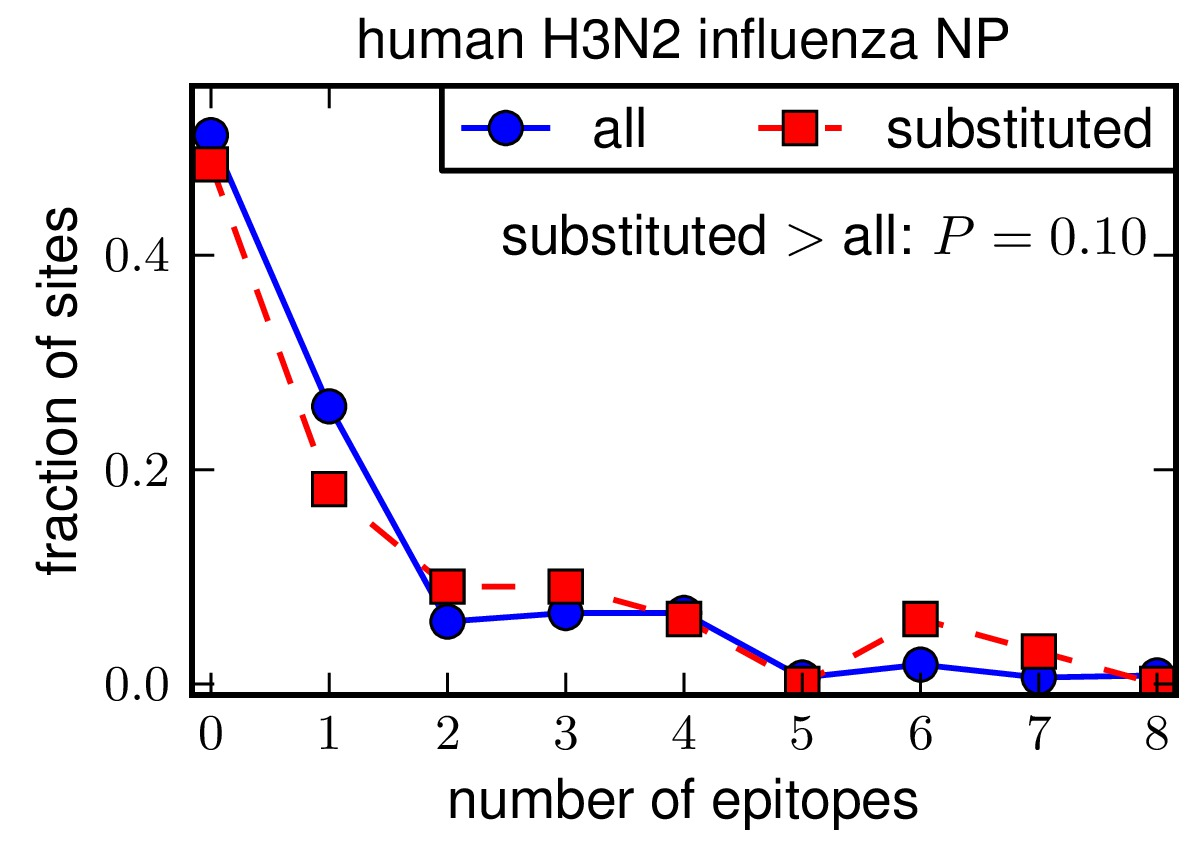
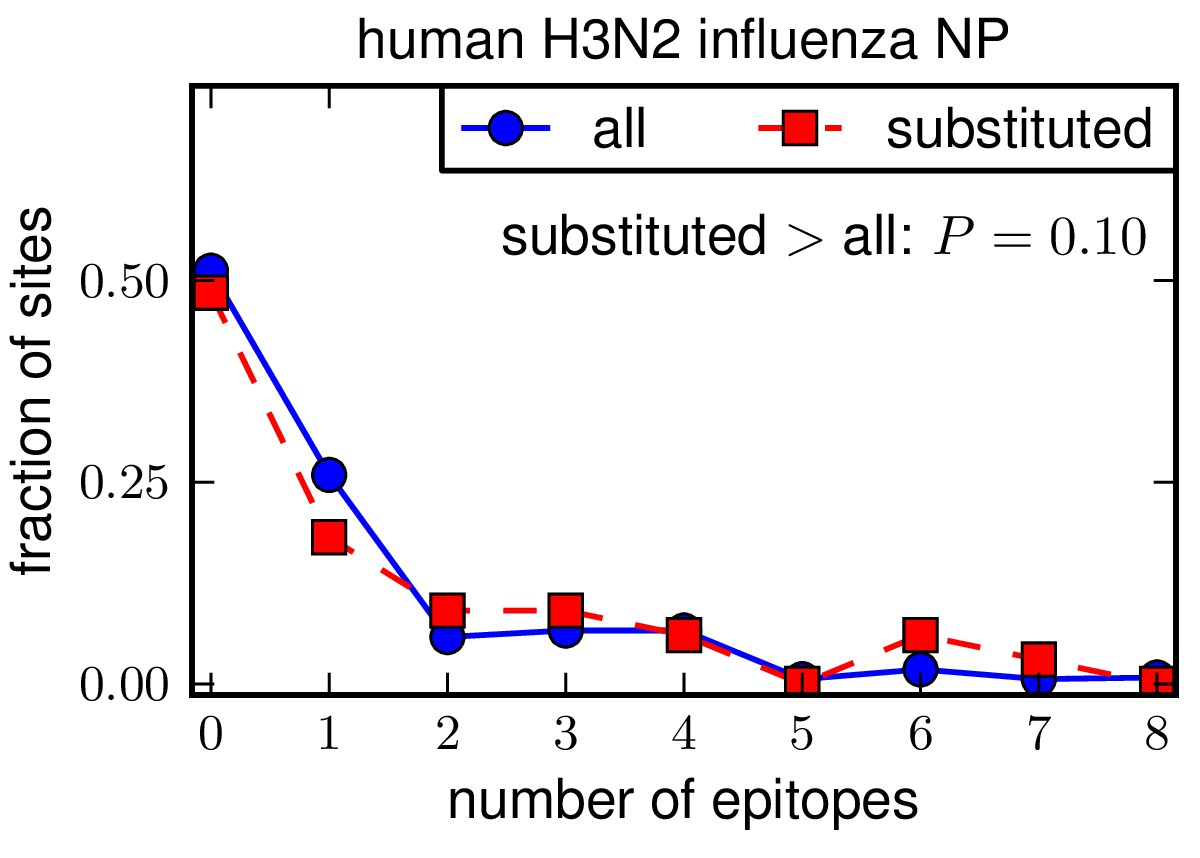
Added option to fix ymax in epitopefinder_plotdistributioncomparison.py, and fixed equal ymax for swine and human comparisons in NP example

Changed region(s): [[0.0, 0.1212, 0.9867, 0.8182], [0.0617, 0.7576, 0.1233, 0.8182], [0.9558, 0.5455, 0.9867, 0.5758]]

diff --git a/searchindex.js b/searchindex.js
@@ -1,1 +1,1 @@
-Search.setIndex({envversion:42,terms:{all:[0,1,2,5,8,9,10,11,14,7,17],influenza:[7,10,9],jason:10,consider:10,headers_seq:[0,8],illustr:2,linebreak:0,ala:0,although:[10,3,9],correl:[6,11,14],overlap:[10,9],cumulativefractionplot:11,follow:[0,1,2,3,5,8,9,10,14,7,17],otherkei:2,unclassifi:[10,9],compact:[10,17,9],decid:5,middl:11,depend:[10,1,11,5,14],xdatafil:14,pb2:0,sensit:0,decim:[0,11],readabl:2,specif:[0,6,5,7,9,10,11,17],tail:11,program:[0,6,8,10],parseseqvalu:2,unique_epitope_refer:10,under:[10,15],sens:11,introduc:17,datafil:7,sourc:[6,10,3,17,9],everi:[0,8],string:[0,1,2,8,9,11,14,7],targetprotsfil:10,purgeredundantoverlap:10,epitopefinder_selectsites_human_h3n2_epistaticsit:17,util:[0,1,3,4,7,11,14,17],print:[0,2,11,8,9],candid:10,assai:[10,17,9],whether:[0,10,11,14,9],correlationplot:11,veri:0,month:0,iedb:9,relev:9,epitopecounts_selectedsites_swin:17,look:[0,5],pamuk:10,ghostscript:17,level:[10,3,17,9],did:2,taatgc:0,list:[1,2,5,8,9,10,7,17],fewer:[1,17],"try":5,writenexu:0,small:4,distributioncomparison_swine_all_vs_substitut:17,round:8,pleas:15,upper:[0,8,9],epitopesbysite_human_h3n2:17,epistaticsites_humanh3n2:17,franc:10,b27:9,natur:17,mhcgroup:[10,9],"1_epitope_sequ":10,zero:[8,11],pressur:17,design:[0,8,12,11,9],valueerror:[0,2,11,9],pass:9,download:[6,3,4,9,10,17],further:[6,10],acid:[0,8],even:[0,8,5,9],index:8,what:[8,5],comman:9,appear:[0,8,5],compar:[1,11,17,5],x_label:11,pylabavail:11,section:6,"while":[11,17],outfileprefix:2,current:[0,2,11,9],mhcsupertyp:[10,9],version:[10,3,17],nggtgc:0,truncate_incomplet:0,consecut:10,"new":[0,8],method:[0,8,11],entry2:9,entry3:9,full:[0,1,10,5],themselv:[10,9],example_influenza_np_1918_descend:17,gener:[1,11,5,6],coeffici:[14,11],here:[1,5,16,12,9,11,10,13,14,7,17],"2007_np":10,purin:0,them:[0,6,7,9,10,11],free:15,tagc:8,drb4:9,path:[1,5,8,10,14,7,17],along:[0,10,11,17],infil:[0,1,5,7,9,10,14],sinc:[0,10,8,11,5],interpret:17,drb3:9,epitopefinder_plotdistributioncomparison:4,search:[0,1,5,7,10,14,17],gln:0,host:[10,17,9],through:[0,10,17,9],observ:17,prior:0,amount:[10,9],selectsitesfil:[1,5],seq3:[0,8],seq2:[0,8],implement:1,gene:[0,10,17,9],e_coli_thioredoxin:0,commonli:[0,7],corr:11,descendend:17,"import":[1,5,7,11,10,14],approxim:0,epitopefinder_plotdistributioncomparison_swine_all_vs_substituted_infil:17,releas:[10,9],api:6,scientif:11,instal:[1,4,5,6,7,10,14],txt:[1,2,5,7,10,14,17],select:[0,1,17,5,14],highli:17,kei:[0,1,2,5,9,10,14,17],plot:[1,3,4,6,7,14,17],feb:0,describ:[1,5,6,7,10,14],would:[0,5,8,9,11,10,7,17],memori:0,distinct:[10,5,9],marinkov:10,two:[0,1,2,8,9,10,11,14,7,17],nexu:0,next:17,few:[10,11,3,4,5],call:[0,1,2,5,8,9,10,11,14,7],value2:2,criteria:11,taken:[0,8,9,11,7,17],indiana:17,type:[0,10],until:2,more:[0,1,2,5,8,10,11,17],sort:[5,9],main:[6,10,3,4,13],sudo:3,targetprots_humanh3n2:17,relat:10,mismatch:[8,10,17],iedb_influenza_tcell_compact_2013:17,trail:[0,8,9],visual:7,exce:[11,17],versu:17,epitopesfile1:1,epitopesfile2:1,particular:0,actual:[1,5,7,11,10,17],given:[0,10,7,11,9],must:[0,1,3,5,8,9,10,11,14,7],writable_fil:0,none:[0,1,9,10,11,14],word:[14,2,7],thymin:0,jess:[0,6,2,8,9,15,17],analys:10,setup:3,work:[0,10,11,3,9],uniqu:[0,10],epitopefinder_plotlineardens:4,remain:[0,2,8],minimum:[10,9],del:10,can:[0,1,3,5,6,8,9,10,11,12,14,7,17],"1_epitope_posit":10,scatter:[14,11],point:[14,11],spearman:[14,11],iedbfil:10,unassign:9,give:[0,2,8,9,11,10,14,7,17],process:[0,17,9],selectedsites_humanh3n2:[17,5],share:9,smirnov:17,indic:[0,1,2,5,8,9,11,7,17],high:3,plotdistributioncomparison:11,ishioka:10,immunolog:[10,17],want:[0,1,3,5,6,8,10,11,12,14,7,17],tac:8,a00968365:17,musclepath:[8,10],"61a":0,occur:17,nearli:0,alwai:[7,9],cours:0,end:[1,2,8,9,11,14,7],newlin:2,divid:8,rather:[0,5,9],anoth:[0,1,2],atgcaa:0,classifi:[10,17,9],write:[0,2,9],how:[10,11,17,5,9],run:[8,4],purg:[10,9],sidnei:10,subdirectori:[6,3,13,17],answer:10,instead:[0,8],csv:[1,5,7,9,10,14,17],epitopefinder_selectsit:[1,4],updat:[10,9],map:10,guanin:0,likewis:0,recogn:0,after:[1,3,6,8,11,10],epitopefinder_plotlineardensity_infil:17,befor:[10,11,9],mac:[3,17],nucleotid:[0,8],multipl:[0,5,8,11,10,7],redund:[10,17,9],bloom:[0,6,2,8,9,15,17],averag:[1,17],goal:9,underscor:11,"short":[10,9],attempt:[10,8,11,9],third:0,read:[0,2,10,9],dqb1:9,quot:9,correspond:[0,2,8,5],made:9,exclud:8,caus:[11,17],inform:[0,8,10,17,9],"switch":0,preced:8,allow:[1,5,8,9,11,10,14,7],subtyp:0,exclus:0,first:[0,2,3,5,8,9,10,11,14,7,17],order:[0,4,5,8,11,7],oper:2,help:[14,7,5],a02:[10,9],john:10,freling:9,a01:[10,9],becaus:10,tupl:[0,8,11,9],evolutionari:17,comma:[7,10,9],coli:0,still:[0,8,9],paramet:10,epitopefinder_plotdistributioncomparison_human_h3n2_all_vs_substituted_infil:17,group:[10,17,9],chosen:0,fix:[7,11],virol:9,wcgw:0,texa:17,splitlabel:11,platform:[1,3,5,7,10,14],unchang:[0,8],fullset:11,progpath:8,sapien:[10,17,9],therefor:[0,8],might:[0,1,3,5,8,10,11,14,7],split:[11,9],non:[14,8,17],scipi:[14,11,3,4,17],"return":[0,2,11,8,9],greater:[11,17],thei:[0,3,5,8,9,10,11,13],handl:[0,5,9],enrich:17,overal:17,dai:0,initi:[1,10,9],"break":10,"1_epitope_refer":10,parsestringvalu:2,"1968_np":10,half:1,h3n2:[7,9],possess:[10,9],subsetpvalu:11,name:[0,1,2,5,8,9,10,11,14,7,17],edit:17,revers:0,separ:[7,10,3,9],tgccat:0,legend:11,mode:11,truth:2,each:[0,1,5,8,9,10,14,7,17],disregard:2,found:[0,1,3,6,8,13,17],higher:[1,7,11],side:[1,11,17],truncat:0,mean:[0,1,8,11,17],subset:[1,11,17,5,9],epitopelist:9,parseintvalu:2,experiment:17,replac:[0,1,8,11],individu:[11,17,9],strip:8,continu:0,ndiff:0,grant2013_plus_iedb_influenza_tcell_compact_2013:10,line:[1,2,5,7,9,11,10,14,17],adenin:0,fraction:[8,11],expect:[0,1,17],year:0,extract:[0,17],hla:[10,17,9],out:[1,17,9],variabl:[0,8,9,11,14,7],shown:[11,17],access:12,space:[0,1,2,7,11,14],header_sequ:0,primari:[7,11,17],rel:17,mutpath:17,stripgapstofirstsequ:8,occurr:0,caucasian:9,math:11,nkey1:2,aligned_seq:8,namelist:0,asp:0,wisconsin:17,linear:11,run_analysi:17,epitopesbysit:[1,7,10,14],upon:9,manipul:0,refdat:0,cresswel:9,undo:8,standard:3,significantli:17,reason:[10,1,11],base:[0,9],york:0,dictionari:[0,2,9],deleteri:17,ask:9,org:9,purgeambiguousdna:0,asn:0,shortest:[10,9],reconfigur:9,your:[0,1,3,5,7,10,14,17],atc:0,ydatafil:14,headers_sequ:0,argument:[0,2,8,9],could:[1,9],traceback:[0,2,11,9],counterpart:10,scipyavail:11,length:[0,8,9,11,10,17],place:[1,7,11,14],outsid:[11,3],ps2ep:17,retain:10,atcgaa:0,stewart:10,origin:0,softwar:15,muscle3:10,directli:[1,5,6,7,12,10,14],mhcallel:9,onc:[0,1,11,5],drawn:[1,11,17],number:[0,1,5,8,9,10,11,14,7,17],rank:11,evolut:[17,5],amino:[0,8],mai:[0,1,7,9,10,11],alreadi:[0,10,11,5],"1e5":11,splitlen:11,atgnaa:0,blank:2,androlewicz:9,ggca:0,size:17,differ:[0,8,10,17,9],nomenclatur:[10,17],jmm_49:17,unknown:0,interact:17,readcompactiedb:9,splitchar:11,least:[14,8,10,5],ata:8,nucleoprotein:[10,17,9],aichi:[10,17],cumul:11,tgcat:8,accept:0,guercio:10,master:17,attgc:8,conveni:3,filter:10,store:9,includ:[6,4,8,11,10,13],assign:[6,9],option:[0,1,3,7,9,10,14],season:0,tool:17,copi:[0,8],specifi:[0,1,2,3,5,8,9,10,11,14,7,17],part:9,pars:[0,6,16,9],mostli:4,termin:0,uracil:0,exactli:[0,2],than:[0,1,2,5,9,10,11,17],pdf2p:17,scheme:[10,17,5,9],epitopestabilitycorrel:14,head2:8,head1:8,provid:[0,3,7,9,11,14],remov:[0,8,10,9],second:[1,2,11,14],ambiguousntcod:0,"final":[0,10],aat:8,express:11,xlabel:[14,11],plasmid:11,gt_or_lt:11,were:[10,17],posit:[0,2,8,9,11,10,7,17],classifybyseason:0,seri:[10,7,11],printallelesummari:9,comput:[1,8,11,17,14],fastafil:0,whitespac:9,startyear:0,ani:[0,1,2,8,9,10,11,14,7],dash:9,packag:[1,3,4,5,6,7,10,13,14,17],endyear:0,alignend:[8,9],have:[0,1,2,3,5,8,9,10,11,14,7,17],need:[0,1,4,5,6,11,12,14,17],minq:2,fasta:[0,2,10,17],element:[0,9],border:17,well:[8,3,9],sequtil:[6,12],fixymax:[7,11],date:[0,9],epitopeslist_human_h3n2:17,scott:10,findmotif:0,note:[0,5,7,9,11,14,17],also:[0,1,3,4,5,8,10,11,14,17],maxn:2,distributioncomparison_human_h3n2_substituted_vs_epistat:17,which:[0,1,3,5,6,8,9,10,11,14,7],hum:10,target:[8,10,17,9],juli:0,singl:[0,1,5,7,9,10,14],begin:[0,1,5,7,10,14],epitopelength:10,unless:[0,6],distribut:[1,11,17],object:[0,2,9],distributioncomparison_all_vs_subset:1,plotfil:[1,7,11,14],most:[0,2,3,5,7,9,11],petrov:10,rigor:0,applyfilt:2,rho:11,pair:[1,2,8,17,14],comparison:[7,11],segment:0,"class":[14,7,10],prematur:0,epitopefinder_plotcorrel:4,latex:[1,7,11,14],don:[0,1],doc:3,hardcod:17,base10formatt:11,doe:[0,2,10,8,9],inde:9,supertyp:[10,17,9],digit:11,determin:[10,11,9],effect:8,axi:[14,7,11],panama:0,dot:8,translat:0,b44:10,tussei:9,somewhat:[7,11],show:[1,11,17,14],text:[1,2,5,6,7,11,14,17],system:10,substr:0,purgeredundantepitop:9,stripleadingtrailinggapstofirstsequ:8,dqa1:9,radic:9,subsetnam:11,data:[1,7,5,14],find:[0,2,5,8,9,10,17],involv:17,cell:17,onli:[0,1,5,9,10,11,14],ngg:0,locat:3,execut:[1,3,5,8,10,14,7,17],explain:17,less:[1,11],figur:1,purgeredund:10,should:[0,1,2,3,5,8,9,10,11,14,7],parametr:14,selectsites_infile_swin:17,analyz:[1,4],datestr:0,stephani:10,local:3,overwritten:[0,10,11],move:[10,9],nex:0,variou:[6,10],get:[0,2],gerqnatei:10,exclude_posit:0,stop:0,autom:17,distributioncomparison_human_h3n2_all_vs_substitut:17,cannot:[0,2,11,7,9],longest:[10,9],alignedseq1:8,report:[10,1,11,9],alignedseq2:8,requir:[0,1,3,4,9,11],epitope_mapp:[6,12],cstringio:2,atgtaa:0,pearson:[14,11],consist:17,organ:[17,9],condenseseq:0,supertype_d:9,twice:5,ylabel:[14,11],epitopefinder_plotdistributioncomparison_human_h3n2_substituted_vs_epistatic_infil:17,common:0,nkey2:2,contain:[0,1,2,3,5,6,8,9,10,14,7,17],privileg:3,where:[0,8,9,11,10,17],valid:[0,8,11],summari:9,user:[10,3],set:[0,1,5,8,9,10,11,14,7,17],b07:[10,9],seq:[0,8],proce:[0,17],samplenam:2,accord:[10,17,9],maximum:[0,10,8,11,7],similarli:11,alessandro:10,entry1:9,result:[7,10,4,17,9],respons:17,fail:[1,7,14],close:[10,11],charact:[0,2,8,11,7,17],best:[10,9],parsefilelist:2,unique_epitope_posit:10,hopefulli:9,mine:17,databas:[6,10,17,9],someth:2,label:[1,7,11],enough:10,between:[14,8,11,7,17],epitopesbysitefil:[10,5],awai:8,epitopesbysite_swin:17,"15th":0,attribut:9,verifi:17,assumpt:0,imagemagick:17,atta:8,extend:6,numer:[0,11],howevev:9,complement:0,weak:0,isol:0,evolutionar:17,extens:[1,7,11,14],lowercas:0,entir:[0,17],masqgtkrsyeqmetdgdrqnateirasvgkmidgigrfyiqmctelklsdh:10,matplotlib:[1,3,4,7,11,14,17],extent:9,outfil:0,come:9,addit:[0,8,7,17],both:[10,7,11,14],keto:0,last:[0,2,3,8,9,11],purgedupl:0,similar:[8,10,3,17],howev:[10,11,12,3,9],equal:[0,9],len:[0,11],ioerror:2,instanc:[10,11,14,5,9],undetermin:9,mani:[10,1,11,17,9],mhcgene:[10,9],epitopeslistfil:10,comment:2,among:[10,9],botten:10,simpli:[0,11,12,17],jeff:10,excess:17,codon:0,residu:[8,9,10,14,7,17],tgc:[0,8],creat:[1,5,6,7,11,10,14,17],written:[0,2,3,8,9,10,11,12,15],np_ctl_epitopes_h3n2_and_swin:17,typic:[17,5],assum:[0,14,8,9],summar:[17,9],duplic:[0,2],code:[0,6,12,3],brisban:10,atgcca:0,southwood:10,set1nam:1,targetprots_swin:17,quotat:9,unknownstogap:0,cite:15,compos:0,been:[0,3,8,9,10,17],drb1:9,selectedsites_swin:17,gilgfvftl:9,valu:[0,1,2,5,8,9,10,11,14,7,17],mcmichael:9,certain:[0,11],unambigu:0,trajectori:17,pmid:[10,9],lrsrywai:9,louisiana:0,selectedsit:1,retainmultipl:[1,5],bmc:[10,17],atga:0,jbloom:[10,17],etc:[0,10],removedot:8,convert:[0,2,11,17,9],maxmismatch:[8,10],unzip:3,paiar:17,repres:[0,11,9],present:[0,14,3,5],statist:[8,17],"case":[0,1,8,9,10,11],ident:[0,8],aggc:8,raw:11,webpag:15,plotlineardens:11,epitopesbysite_humanh3n2:5,properti:[6,14],unique_epitop:9,defin:[1,10],calcul:11,pairwis:8,outcom:8,abov:[0,1,5,7,9,11,14,17],error:0,b08:[10,9],splitcsvlin:9,anchor:0,exp_decimal_digit:11,timefram:0,motif:0,viru:[10,11,17,9],key2:2,key1:2,site:[1,5,7,9,10,14],jpg:17,strain:[0,17],alignstart:[8,9],exit:10,epitopecounts_epistaticsites_human_h3n2:17,recal:[10,17],readsupertypeclassif:9,cytosin:0,sever:[10,13],allel:[10,17,9],develop:6,descent:17,datetoordin:0,april:[10,9],perform:[0,2,3,8,11,10,17],suggest:[10,17],make:[0,1,7,9,11,17],header:[0,1,8,10,14],same:[0,1,5,8,9,10,11,14,7,17],supertypesfil:[10,9],python:[1,3,5,6,7,10,14,17],html:17,pad:[7,11],descend:17,document:[6,11,12,3,17],complet:9,http:17,heads_seq:0,see:[0,1,11,17,9],again:[0,11],"null":17,exp_cutoff:11,kolmogorov:17,ctl:7,rais:[0,2,5,8,9,10,11,14],aax11456:0,pdf:[1,7,11,17,14],extern:3,cytokin:[10,9],seq1:[0,8],zheng:9,recent:[0,2,11,9],newman:10,lower:[0,1,8],appropri:[1,8,15,17],off:0,equival:[0,8,11,17],mhcclass:[10,9],entri:[0,2,5,8,9,11,7],random:[1,11,17],redundant_posit:9,kept:0,seqtyp:0,glu:0,sett:10,cytotox:9,without:[0,1,11],command:[1,3,5,7,10,14,17],chanc:17,thi:[1,4,5,8,10,14,7],gzip:2,five:9,usual:[0,7],mutation_dtm:14,translate_gap:0,identifi:[10,9],just:9,from:[0,1,2,5,6,8,9,10,11,14,15,7,17],supertype_classif:[10,17],pylab:11,ordin:0,rest:0,halfwai:0,stringenc:10,human:[7,9],aathreetoon:0,immunol:10,decimal_digit:11,cut:17,hint:0,mutat:[11,17],except:[0,2,5,8,9,10,11,14],identif:17,add:8,other:[0,1,2,3,6,8,9,10,11,14,7],densiti:[7,11],input:8,alignmentposit:9,subsequ:[0,5],test_exampl:2,getepitopealign:8,take:[0,1,5,8,9,10,11,14,7],successfulli:2,maya:10,hypothesi:[1,11,17],atagc:8,preserv:[0,8],epitopelineardens:[7,17],rna:0,molecul:[10,9],tgatta:8,test:[1,2,3,11,10,17],deplet:17,background:17,insert:8,consid:[8,10,9],allow_substr:0,epitopesfil2:1,associ:[14,17],you:[0,1,3,4,5,6,8,10,11,12,14,15,7,17],pyrimidin:0,assignalleleinfo:9,ignor:[1,7,10,5,14],examin:[0,17,9],like:[14,2,10,9],success:8,cad29965:0,epitopefinder_getepitopes_swine_infil:17,seek:2,arbitrari:11,manual:17,mhc:[14,7,10,9],"1_epitope_allel":10,elispot:[10,9],collect:10,princip:9,walden:9,either:[0,1,8,10,11,14],pvaluewithreplac:[1,5],page:6,underli:17,encount:0,www:9,essenti:14,epitopelistfil:10,epitopecounts_selectedsites_human_h3n2:17,protein:[0,1,5,6,8,9,10,14,7,17],subsampl:0,some:[0,1,3,7,9,10,11,14],muscl:[8,10,3,17],intoler:17,intern:9,homo:[10,17,9],sampl:[11,17],integ:[0,1,2,11,9],getsequ:0,bilsel:10,epitopefinder_plotdistributioncomparison_human_h3n2_vs_swine_infil:17,targetseq:8,epitopesummarystr:9,total:8,fullsetnam:11,lead:[0,8,9],confirm:[10,9],"function":[7,8,4],chromium:9,avoid:0,per:[1,17,5,14],withreplac:11,set2nam:1,substitut:5,larg:0,numberuniqueepitop:[1,7,10,5,14],gtkrsyeqmetdgerqnateirasvgkmidgigrfyiqmctelklsdi:10,backend:11,refer:[8,10,17,15,9],constru:2,immun:[6,10,17,9],motif_indic:0,genom:0,nplasmid:11,parseboolvalu:2,redundant_epitop:9,great:17,repositori:3,dpb1:9,dna:0,datalist:11,unique_posit:9,src:[2,3],about:[8,17,9],ttgcat:0,alexand:10,zip:3,epitop:[1,5,8,10,14,7],column:[7,17],gplv3:15,surround:9,stand:0,done:[0,10,8,11,17],span:10,fals:[0,1,2,5,8,11,14,7],match:[0,1,8,10,9],parseinfluenzagenom:0,letter:0,glenn:10,ambigu:0,unique_epitope_allel:10,"float":[2,11],automat:17,mari:10,down:9,pairwisestatist:8,aab06984:0,empti:[1,5,8,9,11,10,14,7],pb1:0,ensur:[10,9],chang:[0,8,10],mark:10,ggntgc:0,readthrough_n:0,epitopeslist_swin:17,epitopefinder_plotdistributioncomparison_human_h3n2_all_vs_epistatic_infil:17,thise:11,epitopefinder_getepitopes_human_h3n2_infil:17,question:10,iter:0,avail:[1,7,11,14,6],start:[2,8,9],aathre:0,interfac:[6,12,3],mhc_classif:9,strong:0,pvalu:1,refyear:0,log10:11,strict:11,treat:[0,8],lowest:10,head:[0,8],properli:0,interest:17,form:[0,5,8,9,11,10],atggca:0,epitopeslist:10,three:[0,17,9],probcon:8,keyerror:2,unclassified_to_non:9,github:[6,3,17],kotturi:10,procedur:8,spuriou:9,xaa:0,getentri:0,ns1:0,ns2:0,talli:8,"true":[0,1,2,5,9,11],drb5:9,count:[1,17,5],notat:11,immedi:0,parseinfil:2,possibl:[0,5,8,9,11,10,17],"default":[0,8,11,3,9],wish:8,tab:0,adddot:8,displai:[1,11,14],sourceorgan:9,nrandom:11,below:[1,2,5,7,9,11,10,14],those:[0,11,17,9],absenc:17,maxdiff:0,otherwis:[0,1,7,10,11,14],problem:[0,11],rowland:9,clearli:9,trim:8,gone:0,classif:[10,17,9],gong:17,linnemann:9,evalu:11,atgc:0,"1_epitope_inform":10,dure:[17,5],filenam:[0,2],"boolean":[0,2],incomplet:0,exist:[0,2,5,11,10,14],guarante:0,check:0,thioredoxin:0,probabl:[17,5],denot:0,distributioncomparison_human_h3n2_vs_swin:17,sourcemolecul:9,aleksandra:10,titl:[1,7,11,14],sequenti:[10,5],when:[0,1,11],detail:[1,7,10,5,14],invalid:0,build:3,gggtgc:0,bool:11,librari:3,jone:9,varieti:[6,4],writabl:[0,9],unique_epitope_sequ:10,presum:9,draw:[1,11,17],repeat:0,stringio:2,ifng:[10,9],sequenc:[0,2,8,9,11,10,7,17],docstr:9,jung:9,tgcc:0,tgca:0,aligned_headers_seq:8,dpa1:9,epitopefind:15,gap:[0,8,10],homolog:[10,17],reversecompl:0,readthrough_stop:0,distributioncomparison_human_h3n2_all_vs_epistat:17,now:2,longer:[10,9],parsefloatvalu:2,directori:[6,8,10,3,13],t_m:14,first_valu:2,unique_epitope_inform:10,delta:14,selectsites_infile_human_h3n2:17,potenti:[0,10,9],time:[11,5],escap:[11,17],decemb:17,hello:2},objtypes:{"0":"py:module","1":"py:function","2":"py:class"},objnames:{"0":["py","module","Python module"],"1":["py","function","Python function"],"2":["py","class","Python class"]},filenames:["sequtils_module","epitopefinder_plotdistributioncomparison","io_module","installation","analysisscripts","epitopefinder_selectsites","index","epitopefinder_plotlineardensity","align_module","epitopes_module","epitopefinder_getepitopes","plot_module","pythonapi","examples","epitopefinder_plotcorrelation","acknowledgements","mainscripts","example_NP_CTL_epitopes_H3N2_and_swine"],titles:["<tt class=\"docutils literal\"><span class=\"pre\">epitope_mapper.sequtils</span></tt> Module","epitopefinder_plotdistributioncomparison.py","<tt class=\"docutils literal\"><span class=\"pre\">epitopefinder.io</span></tt> Module","Installation","Analysis scripts","epitopefinder_selectsites.py","epitopefinder","epitopefinder_plotlineardensity.py","<tt class=\"docutils literal\"><span class=\"pre\">epitopefinder.align</span></tt> Module","<tt class=\"docutils literal\"><span class=\"pre\">epitopefinder.epitopes</span></tt> Module","epitopefinder_getepitopes.py","<tt class=\"docutils literal\"><span class=\"pre\">epitopefinder.plot</span></tt> Module","Python modules","Examples","epitopefinder_plotcorrelation.py","Acknowledgements","Main scripts","CTL epitopes in influenza NP: human H3N2 and swine"],objects:{"":{sequtils:[0,0,0,"-"],plot:[11,0,0,"-"],align:[8,0,0,"-"],epitopes:[9,0,0,"-"]},src:{io:[2,0,0,"-"]},plot:{ScipyAvailable:[11,1,1,""],PylabAvailable:[11,1,1,""],SplitLabel:[11,1,1,""],SubsetPValue:[11,1,1,""],PlotDistributionComparison:[11,1,1,""],PlotLinearDensity:[11,1,1,""],CorrelationPlot:[11,1,1,""],CumulativeFractionPlot:[11,1,1,""],Base10Formatter:[11,1,1,""]},align:{GetEpitopeAlignments:[8,1,1,""],StripGapsToFirstSequence:[8,1,1,""],Align:[8,1,1,""],StripLeadingTrailingGapsToFirstSequence:[8,1,1,""],PairwiseStatistics:[8,1,1,""],RemoveDots:[8,1,1,""],AddDots:[8,1,1,""]},sequtils:{GetSequence:[0,1,1,""],Translate:[0,1,1,""],ParseInfluenzaGenomes:[0,1,1,""],GetEntries:[0,1,1,""],Read:[0,1,1,""],FindMotifs:[0,1,1,""],AmbiguousNTCodes:[0,1,1,""],UnknownsToGaps:[0,1,1,""],Write:[0,1,1,""],WriteNEXUS:[0,1,1,""],DateToOrdinal:[0,1,1,""],CondenseSeqs:[0,1,1,""],ClassifyBySeason:[0,1,1,""],PurgeAmbiguousDNA:[0,1,1,""],PurgeDuplicates:[0,1,1,""],ReverseComplement:[0,1,1,""],AAThreeToOne:[0,1,1,""]},epitopes:{PrintAlleleSummary:[9,1,1,""],ReadCompactIEDB:[9,1,1,""],PurgeRedundantEpitopes:[9,1,1,""],AssignAlleleInfo:[9,1,1,""],EpitopeSummaryString:[9,1,1,""],SplitCSVLine:[9,1,1,""],Epitope:[9,2,1,""],ReadSuperTypeClassification:[9,1,1,""]},"src.io":{ParseSeqValue:[2,1,1,""],ParseFileList:[2,1,1,""],ParseBoolValue:[2,1,1,""],ParseInfile:[2,1,1,""],ParseStringValue:[2,1,1,""],ParseIntValue:[2,1,1,""],ParseFloatValue:[2,1,1,""]}},titleterms:{softwar:17,influenza:17,identifi:17,human:17,citat:15,among:17,acknowledg:15,modul:[0,2,8,12,9,11],site:17,mhc:17,epitopefind:[6,2,11,8,9],file:[1,5,7,10,14,17],instal:3,sequtil:0,plot:11,epitopefinder_plotcorrel:14,script:[1,4,5,16,10,14,7],licens:15,detail:[11,9],substitut:17,epitop:[17,9],analyz:17,input:[1,5,7,10,14,17],main:16,epitopefinder_selectsit:5,"function":[11,9],run:[1,5,7,10,14,17],format:[1,7,10,5,14],python:12,analysi:[4,17],step:17,h3n2:17,data:17,"class":[17,9],epitope_mapp:0,epitopefinder_plotdistributioncomparison:1,epitopefinder_getepitop:10,align:8,list:11,epistat:17,epitopefinder_plotlineardens:7,defin:9,exampl:[1,5,7,10,13,14],swine:17,thi:9,ctl:17,output:[1,7,10,5,14]}})
+Search.setIndex({envversion:42,terms:{redund:[10,17,8],all:[0,1,2,5,7,8,10,11,14,9,17],influenza:[7,10,8],jason:10,consider:10,headers_seq:[0,9],illustr:2,linebreak:0,ala:0,although:[10,3,8],correl:[6,11,14],overlap:[10,8],cumulativefractionplot:11,follow:[0,1,2,3,5,7,8,10,14,9,17],otherkei:2,unclassifi:[10,8],compact:[10,17,8],decid:5,middl:11,depend:[10,1,11,5,14],xdatafil:14,pb2:0,sensit:0,decim:[0,11],readabl:2,specif:[0,6,5,7,8,10,11,17],tail:11,program:[0,6,9,10],parseseqvalu:2,unique_epitope_refer:10,under:[10,15],sens:11,introduc:17,datafil:7,sourc:[6,10,3,17,8],everi:[0,9],string:[0,1,2,7,8,11,14,9],targetprotsfil:10,purgeredundantoverlap:10,epitopefinder_selectsites_human_h3n2_epistaticsit:17,end:[1,2,7,8,11,14,9],util:[0,1,3,4,7,11,14,17],print:[0,2,11,9,8],candid:10,assai:[10,17,8],whether:[0,10,11,14,8],correlationplot:11,veri:0,month:0,iedb:8,relev:8,epitopecounts_selectedsites_swin:17,pamuk:10,selectsites_infile_human_h3n2:17,level:[10,3,17,8],tgccat:0,taatgc:0,list:[2,5,9,8,10,7],fewer:[1,17],"try":5,writenexu:0,small:4,distributioncomparison_swine_all_vs_substitut:17,round:9,pleas:15,upper:[0,9,8],epitopesbysite_human_h3n2:17,epistaticsites_humanh3n2:17,franc:10,b27:8,natur:17,mhcgroup:[10,8],"1_epitope_sequ":10,zero:[9,11],pressur:17,design:[0,11,12,9,8],codon:0,pass:8,download:[6,3,4,8,10,17],further:[6,10],acid:[0,9],even:[0,9,5,8],index:9,what:[9,5],comman:8,appear:[0,9,5],compar:[1,11,17,5],x_label:11,pylabavail:11,section:6,"while":[11,17],outfileprefix:2,current:[0,2,11,8],mhcsupertyp:[10,8],sinc:[0,10,9,11,5],version:[10,3,17],nggtgc:0,truncate_incomplet:0,consecut:10,"new":[0,9],method:[0,9,11],entry2:8,entry3:8,full:[0,1,10,5],themselv:[10,8],example_influenza_np_1918_descend:17,gener:[1,11,5,6],coeffici:[14,11],here:[1,5,7,8,10,11,12,13,14,16,17],"2007_np":10,purin:0,let:11,free:15,tagc:9,drb4:8,path:[1,5,7,10,14,9,17],along:[0,10,11,17],strong:0,legend:11,valu:[0,1,2,5,7,8,10,11,14,9,17],drb3:8,epitopefinder_plotdistributioncomparison:[],search:[0,1,5,7,10,14,17],gln:0,host:[10,17,8],observ:17,prior:0,amount:[10,8],selectsitesfil:[1,5],seq3:[0,9],seq2:[0,9],implement:1,gene:[0,10,17,8],e_coli_thioredoxin:0,commonli:[0,7],repositori:3,approxim:0,epitopefinder_plotdistributioncomparison_swine_all_vs_substituted_infil:17,releas:[10,8],api:6,instal:[14,7,10,5],txt:[1,2,5,7,10,14,17],select:[0,1,17,5,14],highli:17,kei:[0,1,2,5,8,10,14,17],plot:[14,7,3],feb:0,describ:[1,5,6,7,10,14],would:[0,1,5,7,8,10,11,9,17],memori:0,distinct:[10,5,8],marinkov:10,two:[0,1,2,7,8,10,11,14,9,17],nexu:0,next:17,few:[10,11,3,4,5],call:[0,1,2,5,7,8,10,11,14,9],value2:2,criteria:11,taken:[0,7,8,11,9,17],indiana:17,type:[0,10],until:2,more:[0,1,2,5,9,10,11,17],sort:[5,8],main:[10,3],sudo:3,targetprots_humanh3n2:17,relat:10,mismatch:[9,10,17],iedb_influenza_tcell_compact_2013:17,trail:[0,9,8],visual:7,exce:[11,17],versu:17,epitopesfile1:1,epitopesfile2:1,particular:0,actual:[1,5,7,11,10,17],given:[0,10,7,11,8],must:[0,1,3,5,7,8,10,11,14,9],writable_fil:0,none:[0,1,8,10,11,14],word:[14,2,7],thymin:0,jess:[0,6,2,9,8,15,17],analys:10,setup:3,work:[0,10,11,3,8],uniqu:[0,10],epitopefinder_plotlineardens:[],remain:[0,2,9],minimum:[10,8],del:10,can:[0,1,3,5,6,7,8,10,11,12,14,9,17],"1_epitope_posit":10,scatter:[14,11],spearman:[14,11],iedbfil:10,unassign:8,give:[0,2,7,8,11,10,14,9,17],process:[0,17,8],selectedsites_humanh3n2:[17,5],share:8,smirnov:17,indic:[0,1,2,5,7,8,11,9,17],high:3,plotdistributioncomparison:11,ishioka:10,immunolog:[10,17],want:[0,1,3,5,6,7,10,11,12,14,9,17],tac:9,a00968365:17,musclepath:[9,10],"61a":0,occur:17,nearli:0,alwai:[7,8],cours:0,multipl:[0,5,7,11,10,9],newlin:2,divid:9,rather:[0,5,8],anoth:[0,1,2],atgcaa:0,classifi:[10,17,8],write:[0,2,8],how:[10,11,17,5,8],run:9,purg:[10,8],sidnei:10,subdirectori:[6,3,13,17],answer:10,instead:[0,9],csv:[1,5,7,8,10,14,17],epitopefinder_selectsit:[],updat:[10,8],map:10,guanin:0,express:11,recogn:0,max:11,after:[1,3,6,9,11,10],them:[0,6,7,8,10,11],epitopefinder_plotlineardensity_infil:17,befor:[10,11,8],mac:[3,17],nucleotid:[0,9],aligned_headers_seq:9,underscor:11,comma:[7,10,8],bloom:[0,6,2,9,8,15,17],averag:[1,17],goal:8,"short":[10,8],attempt:[10,9,11,8],third:0,heads_seq:0,dqb1:8,quot:8,correspond:[0,2,9,5],made:8,exclud:9,caus:[11,17],inform:[0,9,10,17,8],"switch":0,preced:9,allow:[1,5,7,8,11,10,14,9],subtyp:0,exclus:0,first:[0,2,3,5,7,8,10,11,14,9,17],order:[0,4,5,9,11,7],oper:2,help:[14,7,5],a02:[10,8],john:10,freling:8,a01:[10,8],becaus:10,tupl:[0,9,11,8],evolutionari:17,through:[0,10,17,8],coli:0,still:[0,9,8],paramet:10,epitopefinder_plotdistributioncomparison_human_h3n2_all_vs_substituted_infil:17,group:[10,17,8],chosen:0,fix:[1,7,11],virol:8,wcgw:0,splitlabel:11,platform:[1,3,5,7,10,14],unchang:[0,9],fullset:11,progpath:9,sapien:[10,17,8],therefor:[0,9],might:[0,1,3,5,7,10,11,14,9],split:[11,8],non:[14,9,17],scipi:[14,11,3,4,17],"return":[0,2,11,9,8],greater:[11,17],thei:[0,3,5,9,8,11,10,13],dna:0,python:[14,7,10,3,5],enrich:17,overal:17,dai:0,initi:[1,10,8],"break":10,"1_epitope_refer":10,ghostscript:17,"1968_np":10,half:1,h3n2:[7,8],possess:[10,8],subsetpvalu:11,name:[0,1,2,5,7,8,10,11,14,9,17],edit:17,revers:0,separ:[7,10,3,8],did:2,mode:11,truth:2,each:[0,1,5,7,8,10,14,9,17],disregard:2,found:[0,1,3,6,9,13,17],higher:[1,7,11],side:[1,11,17],truncat:0,mean:[0,1,9,11,17],subset:[1,11,17,5,8],parsestringvalu:2,epitopelist:8,parseintvalu:2,experiment:17,replac:[0,1,9,11],individu:[11,17,8],strip:9,continu:0,ndiff:0,grant2013_plus_iedb_influenza_tcell_compact_2013:10,line:[1,2,5,7,8,10,11,14,17],adenin:0,significantli:17,year:0,extract:[0,17],hla:[10,17,8],out:[1,17,8],variabl:[0,7,8,11,14,9],shown:[11,17],space:[0,1,2,7,11,14],header_sequ:0,primari:[7,11,17],rel:17,mutpath:17,stripgapstofirstsequ:9,occurr:0,caucasian:8,math:11,nkey1:2,aligned_seq:9,namelist:0,asp:0,wisconsin:17,linear:11,run_analysi:17,epitopesbysit:[1,7,10,14],manipul:0,refdat:0,cresswel:8,undo:9,standard:3,reason:[10,1,11],base:[0,8],york:0,dictionari:[0,2,8],element:[0,8],ask:8,org:8,purgeambiguousdna:0,asn:0,shortest:[10,8],reconfigur:8,your:[0,1,3,5,7,10,14,17],atc:0,ydatafil:14,headers_sequ:0,could:[1,8],traceback:[0,2,11,8],counterpart:10,scipyavail:11,length:[0,9,8,11,10,17],place:[1,7,11,14],outsid:[11,3],ps2ep:17,bilsel:10,retain:10,atcgaa:0,stewart:10,origin:0,softwar:15,muscle3:10,directli:[1,5,6,7,12,10,14],mhcallel:8,onc:[0,1,11,5],dure:[17,5],number:[0,1,5,7,8,10,11,14,9,17],rank:11,evolut:[17,5],amino:[0,9],mai:[0,1,7,8,10,11],alreadi:[0,10,11,5],"1e5":11,splitlen:11,blank:2,unzip:3,androlewicz:8,ggca:0,size:17,differ:[0,9,10,17,8],nomenclatur:[10,17],jmm_49:17,unknown:0,interact:17,readcompactiedb:8,splitchar:11,least:[14,9,10,5],ata:9,nucleoprotein:[10,17,8],aichi:[10,17],cumul:11,tgcat:9,accept:0,guercio:10,master:17,attgc:9,conveni:3,filter:10,store:8,includ:[6,4,9,11,10,13],assign:[6,8],option:[0,1,3,7,8,10,11,14],season:0,tool:17,copi:[0,9],specifi:[0,1,2,3,5,7,8,10,11,14,9,17],part:8,pars:[0,6,16,8],mostli:4,termin:0,uracil:0,exactli:[0,2],than:[0,1,2,5,8,10,11,17],pdf2p:17,scheme:[10,17,5,8],epitopestabilitycorrel:14,head2:9,head1:9,provid:[0,3,7,8,11,14],remov:[0,9,10,8],second:[1,2,11,14],ambiguousntcod:0,"final":[0,10],aat:9,xlabel:[14,11],plasmid:11,gt_or_lt:11,were:[10,17],posit:[0,2,7,8,11,10,9,17],classifybyseason:0,genom:0,seri:[10,7,11],printallelesummari:8,comput:[1,9,11,17,14],fastafil:0,whitespac:8,maxmismatch:[9,10],dash:8,packag:[1,3,4,5,6,7,10,13,14,17],endyear:0,alignend:[9,8],have:[0,1,2,3,5,7,8,10,11,14,9,17],need:[0,1,4,5,6,11,12,14,17],minq:2,fasta:[0,2,10,17],"null":17,border:17,sequtil:[],fixymax:[7,11],date:[0,8],epitopeslist_human_h3n2:17,scott:10,findmotif:0,note:[0,5,7,8,11,14,17],also:[0,1,3,4,5,9,10,11,14,17],maxn:2,distributioncomparison_human_h3n2_substituted_vs_epistat:17,which:[0,1,3,5,6,7,8,10,11,14,9],hum:10,target:[9,10,17,8],juli:0,singl:[0,1,5,7,8,10,14],begin:[0,1,5,7,10,14],epitopelength:10,unless:[0,6],distribut:[1,11,17],object:[0,2,8],distributioncomparison_all_vs_subset:1,plotfil:[1,7,11,14],most:[0,2,3,5,7,8,11],petrov:10,rigor:0,applyfilt:2,rho:11,pair:[1,2,9,17,14],segment:0,"class":[14,7,10],prematur:0,latex:[1,7,11,14],don:[0,1],doc:3,hardcod:17,base10formatt:11,doe:[0,2,10,9,8],inde:8,supertyp:[10,17,8],digit:11,determin:[10,11,8],effect:9,axi:[1,7,11,14],panama:0,dot:9,translat:0,b44:10,tussei:8,somewhat:[7,11],show:[1,11,17,14],text:[1,2,5,6,7,11,14,17],system:10,substr:0,purgeredundantepitop:8,stripleadingtrailinggapstofirstsequ:9,dqa1:8,radic:8,subsetnam:11,texa:17,find:[0,2,5,9,8,11,10,17],involv:17,access:12,onli:[0,1,5,8,10,11,14],ngg:0,locat:3,execut:[1,3,5,7,10,14,9,17],explain:17,figur:1,should:[0,1,2,3,5,7,8,10,11,14,9],parametr:14,selectsites_infile_swin:17,analyz:[],datestr:0,stephani:10,local:3,overwritten:[0,10,11],ioerror:2,ani:[0,1,2,7,8,10,11,14,9],nex:0,variou:[6,10],get:[0,2],gerqnatei:10,exclude_posit:0,stop:0,autom:17,distributioncomparison_human_h3n2_all_vs_substitut:17,cannot:[0,2,11,7,8],longest:[10,8],alignedseq1:9,report:[10,1,11,8],alignedseq2:9,requir:[0,1,3,4,8,11],epitope_mapp:[],cstringio:2,atgtaa:0,pearson:[14,11],consist:17,organ:[17,8],condenseseq:0,supertype_d:8,twice:5,ylabel:[14,11],epitopefinder_plotdistributioncomparison_human_h3n2_substituted_vs_epistatic_infil:17,common:0,nkey2:2,contain:[0,1,2,3,5,6,7,8,10,14,9,17],privileg:3,where:[0,9,8,11,10,17],valid:[0,9,11],summari:8,user:[10,3],set:[0,1,5,7,8,10,11,14,9,17],b07:[10,8],seq:[0,9],datalist:11,samplenam:2,accord:[10,17,8],maximum:[0,1,7,10,11,9],similarli:11,alessandro:10,entry1:8,result:[7,10,4,17,8],respons:17,fail:[1,7,14],close:[10,11],charact:[0,2,9,11,7,17],best:[10,11,8],parsefilelist:2,sourcemolecul:8,epitopefinder_plotcorrel:[],hopefulli:8,mine:17,databas:[6,10,17,8],deleteri:17,label:[1,7,11],enough:10,between:[14,7,11,9,17],"import":[1,5,7,11,10,14],awai:9,epitopesbysite_swin:17,"15th":0,attribut:8,verifi:17,assumpt:0,imagemagick:17,atta:9,unique_epitope_posit:10,numer:[0,11],howevev:8,complement:0,weak:0,isol:0,evolutionar:17,extens:[1,7,11,14],lowercas:0,entir:[0,17],masqgtkrsyeqmetdgdrqnateirasvgkmidgigrfyiqmctelklsdh:10,matplotlib:[1,3,4,7,11,14,17],extent:8,outfil:0,come:8,addit:[0,7,9,17],both:[10,7,11,14],keto:0,last:[0,2,3,9,8,11],purgedupl:0,someth:2,howev:[10,11,12,3,8],equal:[0,8],len:[0,11],etc:[0,10],instanc:[10,11,14,5,8],from:[0,1,2,5,6,7,8,10,11,14,15,9,17],undetermin:8,mani:[10,1,11,17,8],mhcgene:[10,8],epitopeslistfil:10,comment:2,among:[10,8],botten:10,simpli:[0,1,11,12,17],point:[14,11],excess:17,atgnaa:0,assignalleleinfo:8,tgc:[0,9],creat:[1,5,6,7,11,10,14,17],walden:8,confirm:[10,8],np_ctl_epitopes_h3n2_and_swin:17,written:[0,2,3,9,8,10,11,12,15],assum:[0,14,9,8],summar:[17,8],duplic:[0,2],code:[0,6,12,3],brisban:10,atgcca:0,southwood:10,set1nam:1,targetprots_swin:17,quotat:8,unknownstogap:0,cite:15,compos:0,been:[0,3,9,8,10,17],drb1:8,selectedsites_swin:17,gilgfvftl:8,interpret:17,mcmichael:8,unambigu:0,xaa:0,pmid:[10,8],lrsrywai:8,louisiana:0,purgeredund:10,retainmultipl:[1,5],bmc:[10,17],atga:0,jbloom:[10,17],removedot:9,convert:[0,2,11,17,8],argument:[0,2,11,9,8],parsefloatvalu:2,paiar:17,present:[0,14,3,5],statist:[9,17],"case":[0,1,9,8,10,11],ident:[0,9],look:[0,5],raw:11,plotlineardens:11,epitopesbysite_humanh3n2:5,properti:[6,14],unique_epitop:8,defin:10,calcul:11,pairwis:9,outcom:9,abov:[0,1,5,7,8,11,14,17],error:0,b08:[10,8],splitcsvlin:8,anchor:0,exp_decimal_digit:11,timefram:0,motif:0,cell:17,viru:[10,11,17,8],key2:2,key1:2,site:[14,7,10,5,8],jpg:17,strain:[0,17],alignstart:[9,8],exit:10,epitopecounts_epistaticsites_human_h3n2:17,recal:[10,17],readsupertypeclassif:8,cytosin:0,sever:[10,13],parseinfil:2,allel:[10,17,8],develop:6,startyear:0,datetoordin:0,april:[10,8],perform:[0,2,3,9,11,10,17],suggest:[10,17],make:[0,1,7,8,11,17],header:[0,1,9,10,14],same:[0,1,5,7,8,10,11,14,9,17],data:[14,7,5],supertypesfil:[10,8],handl:[0,5,8],html:17,pad:[7,11],descend:17,document:[6,11,12,3,17],complet:8,aggc:9,http:17,see:[0,1,11,17,8],again:[0,11],upon:8,exp_cutoff:11,kolmogorov:17,ctl:7,rais:[0,2,5,9,8,11,10,14],aax11456:0,pdf:[1,7,11,17,14],extern:3,cytokin:[10,8],typic:[17,5],zheng:8,recent:[0,2,11,8],newman:10,lower:[0,1,9],appropri:[1,9,15,17],off:0,equival:[0,9,11,17],mhcclass:[10,8],entri:[0,2,5,7,8,11,9],random:[1,11,17],well:[9,3,8],kept:0,seqtyp:0,glu:0,sett:10,extend:6,likewis:0,without:[0,1,11],command:[1,3,5,7,10,14,17],chanc:17,thi:[14,7,10,9,5],gzip:2,five:8,usual:[0,7],mutation_dtm:14,translate_gap:0,identifi:[10,8],just:8,less:[1,11],supertype_classif:[10,17],pylab:11,ordin:0,rest:0,halfwai:0,stringenc:10,human:[7,8],aathreetoon:0,immunol:10,move:[10,8],decimal_digit:11,cut:17,hint:0,jeff:10,except:[0,2,5,9,8,11,10,14],identif:17,add:9,other:[0,1,2,3,6,7,8,10,11,14,9],densiti:[7,11],input:9,alignmentposit:8,subsequ:[0,5],test_exampl:2,getepitopealign:9,take:[0,1,5,7,8,10,11,14,9],maya:10,hypothesi:[1,11,17],atagc:9,webpag:15,epitopelineardens:[7,17],rna:0,molecul:[10,8],tgatta:9,test:[1,2,3,11,10,17],deplet:17,background:17,epitopesbysitefil:[10,5],allow_substr:0,epitopesfil2:[],associ:[14,17],you:[0,1,3,4,5,6,7,10,11,12,14,15,9,17],infil:[0,1,5,7,8,10,14],pyrimidin:0,residu:[7,8,10,14,9,17],examin:[0,17,8],like:[1,2,10,14,8],success:9,cad29965:0,epitopefinder_getepitopes_swine_infil:17,seek:2,arbitrari:11,manual:17,mhc:[14,7,10,8],"1_epitope_allel":10,elispot:[10,8],collect:10,princip:8,"boolean":[0,2],either:[0,1,9,10,11,14],leav:1,pvaluewithreplac:[1,5],page:6,underli:17,encount:0,www:8,essenti:14,epitopelistfil:10,epitopecounts_selectedsites_human_h3n2:17,descent:17,protein:[0,1,5,6,7,8,10,14,9,17],subsampl:0,some:[0,1,3,7,8,10,11,14],muscl:[9,10,3,17],intoler:17,intern:8,homo:[10,17,8],sampl:[11,17],integ:[0,1,2,11,8],read:[0,2,10,8],getsequ:0,seq1:[0,9],epitopefinder_plotdistributioncomparison_human_h3n2_vs_swine_infil:17,targetseq:9,epitopesummarystr:8,total:9,fullsetnam:11,lead:[0,9,8],t_m:14,"function":[7,9],chromium:8,avoid:0,per:[1,17,5,14],withreplac:11,set2nam:1,substitut:5,larg:0,numberuniqueepitop:[1,7,10,5,14],gtkrsyeqmetdgerqnateirasvgkmidgigrfyiqmctelklsdi:10,backend:11,refer:[9,10,17,15,8],constru:2,immun:[6,10,17,8],motif_indic:0,cytotox:8,descendend:17,nplasmid:11,parseboolvalu:2,redundant_epitop:8,great:17,corr:11,dpb1:8,drawn:[1,11,17],unique_posit:8,comparison:[7,11],about:[9,17,8],ttgcat:0,alexand:10,zip:3,epitop:[14,7,10,9,5],column:[7,17],proce:[0,17],gplv3:15,surround:8,stand:0,done:[0,10,9,11,17],span:10,fals:[0,1,2,5,7,11,14,9],match:[0,1,9,10,8],parseinfluenzagenom:0,redundant_posit:8,letter:0,glenn:10,ambigu:0,unique_epitope_allel:10,sourceorgan:8,"float":[2,11],automat:17,mari:10,down:8,pairwisestatist:9,aab06984:0,empti:[1,5,7,8,11,10,14,9],pb1:0,ensur:[10,8],chang:[0,9,10],mark:10,ggntgc:0,readthrough_n:0,epitopeslist_swin:17,epitopefinder_plotdistributioncomparison_human_h3n2_all_vs_epistatic_infil:17,thise:11,ymax:[1,11],epitopefinder_getepitopes_human_h3n2_infil:17,question:10,iter:0,avail:[1,7,11,14,6],start:[2,9,8],aathre:0,interfac:[6,12,3],mhc_classif:8,fraction:[9,11],pvalu:1,refyear:0,log10:11,strict:11,treat:[0,9],lowest:10,head:[0,9],properli:0,interest:17,form:[0,5,9,8,11,10],atggca:0,epitopeslist:10,three:[0,17,8],probcon:9,keyerror:2,unclassified_to_non:8,github:[6,3,17],kotturi:10,procedur:9,spuriou:8,trajectori:17,getentri:0,ns1:0,ns2:0,talli:9,"true":[0,1,2,5,8,11],drb5:8,count:[1,17,5],notat:11,immedi:0,"1_epitope_inform":10,possibl:[0,5,9,8,11,10,17],clearli:8,wish:9,preserv:[0,9],tab:0,adddot:9,displai:[1,11,14],valueerror:[0,2,11,8],nrandom:11,insert:9,below:[1,2,5,7,8,10,11,14],those:[0,11,17,8],absenc:17,maxdiff:0,otherwis:[0,1,7,10,11,14],problem:[0,11],similar:[9,10,3,17],expect:[0,1,17],trim:9,gone:0,classif:[10,17,8],gong:17,linnemann:8,evalu:11,atgc:0,certain:[0,11],selectedsit:1,filenam:[0,2],repres:[0,11,8],incomplet:0,exist:[0,2,5,11,10,14],guarante:0,check:0,thioredoxin:0,probabl:[17,5],rowland:8,denot:0,distributioncomparison_human_h3n2_vs_swin:17,successfulli:2,aleksandra:10,titl:[1,7,11,14],sequenti:[10,5],when:[0,1,11],detail:[14,7,10,5],invalid:0,"default":[0,9,11,3,8],build:3,gggtgc:0,bool:11,librari:3,jone:8,varieti:[6,4],writabl:[0,8],ignor:[1,7,10,5,14],presum:8,mutat:[11,17],draw:[1,11,17],repeat:0,stringio:2,ifng:[10,8],sequenc:[0,2,7,8,11,10,9,17],docstr:8,jung:8,tgcc:0,tgca:0,consid:[9,10,8],dpa1:8,epitopefind:15,src:[2,3],homolog:[10,17],reversecompl:0,readthrough_stop:0,distributioncomparison_human_h3n2_all_vs_epistat:17,now:2,longer:[10,8],scientif:11,directori:[6,9,10,3,13],gap:[0,9,10],first_valu:2,unique_epitope_inform:10,delta:14,unique_epitope_sequ:10,potenti:[0,10,8],time:[11,5],escap:[11,17],decemb:17,hello:2},objtypes:{"0":"py:module","1":"py:function","2":"py:class"},objnames:{"0":["py","module","Python module"],"1":["py","function","Python function"],"2":["py","class","Python class"]},filenames:["sequtils_module","epitopefinder_plotdistributioncomparison","io_module","installation","analysisscripts","epitopefinder_selectsites","index","epitopefinder_plotlineardensity","epitopes_module","align_module","epitopefinder_getepitopes","plot_module","pythonapi","examples","epitopefinder_plotcorrelation","acknowledgements","mainscripts","example_NP_CTL_epitopes_H3N2_and_swine"],titles:["<tt class=\"docutils literal\"><span class=\"pre\">epitope_mapper.sequtils</span></tt> Module","epitopefinder_plotdistributioncomparison.py","<tt class=\"docutils literal\"><span class=\"pre\">epitopefinder.io</span></tt> Module","Installation","Analysis scripts","epitopefinder_selectsites.py","epitopefinder","epitopefinder_plotlineardensity.py","<tt class=\"docutils literal\"><span class=\"pre\">epitopefinder.epitopes</span></tt> Module","<tt class=\"docutils literal\"><span class=\"pre\">epitopefinder.align</span></tt> Module","epitopefinder_getepitopes.py","<tt class=\"docutils literal\"><span class=\"pre\">epitopefinder.plot</span></tt> Module","Python modules","Examples","epitopefinder_plotcorrelation.py","Acknowledgements","Main scripts","CTL epitopes in influenza NP: human H3N2 and swine"],objects:{"":{sequtils:[0,0,0,"-"],plot:[11,0,0,"-"],align:[9,0,0,"-"],epitopes:[8,0,0,"-"]},src:{io:[2,0,0,"-"]},plot:{ScipyAvailable:[11,1,1,""],PylabAvailable:[11,1,1,""],SplitLabel:[11,1,1,""],SubsetPValue:[11,1,1,""],PlotDistributionComparison:[11,1,1,""],PlotLinearDensity:[11,1,1,""],CorrelationPlot:[11,1,1,""],CumulativeFractionPlot:[11,1,1,""],Base10Formatter:[11,1,1,""]},align:{GetEpitopeAlignments:[9,1,1,""],StripGapsToFirstSequence:[9,1,1,""],Align:[9,1,1,""],StripLeadingTrailingGapsToFirstSequence:[9,1,1,""],PairwiseStatistics:[9,1,1,""],RemoveDots:[9,1,1,""],AddDots:[9,1,1,""]},sequtils:{GetSequence:[0,1,1,""],Translate:[0,1,1,""],ParseInfluenzaGenomes:[0,1,1,""],GetEntries:[0,1,1,""],Read:[0,1,1,""],FindMotifs:[0,1,1,""],AmbiguousNTCodes:[0,1,1,""],UnknownsToGaps:[0,1,1,""],Write:[0,1,1,""],WriteNEXUS:[0,1,1,""],DateToOrdinal:[0,1,1,""],CondenseSeqs:[0,1,1,""],ClassifyBySeason:[0,1,1,""],PurgeAmbiguousDNA:[0,1,1,""],PurgeDuplicates:[0,1,1,""],ReverseComplement:[0,1,1,""],AAThreeToOne:[0,1,1,""]},epitopes:{PrintAlleleSummary:[8,1,1,""],ReadCompactIEDB:[8,1,1,""],PurgeRedundantEpitopes:[8,1,1,""],AssignAlleleInfo:[8,1,1,""],EpitopeSummaryString:[8,1,1,""],SplitCSVLine:[8,1,1,""],Epitope:[8,2,1,""],ReadSuperTypeClassification:[8,1,1,""]},"src.io":{ParseSeqValue:[2,1,1,""],ParseFileList:[2,1,1,""],ParseBoolValue:[2,1,1,""],ParseInfile:[2,1,1,""],ParseStringValue:[2,1,1,""],ParseIntValue:[2,1,1,""],ParseFloatValue:[2,1,1,""]}},titleterms:{softwar:17,influenza:17,identifi:17,human:17,citat:15,among:17,acknowledg:15,modul:[0,2,9,8,11,12],site:17,mhc:17,file:[1,5,7,10,14,17],instal:3,sequtil:0,plot:11,epitopefinder_plotcorrel:14,script:[1,4,5,7,10,14,16],licens:15,detail:[11,8],substitut:17,epitop:[17,8],analyz:17,input:[1,5,7,10,14,17],main:16,epitopefinder_selectsit:5,"function":[11,8],run:[1,5,7,10,14,17],format:[1,7,10,5,14],python:12,analysi:[4,17],epitopefind:[6,2,11,9,8],h3n2:17,data:17,"class":[17,8],epitope_mapp:0,step:17,epitopefinder_plotdistributioncomparison:1,epitopefinder_getepitop:10,align:9,list:11,epistat:17,epitopefinder_plotlineardens:7,defin:8,exampl:[1,5,7,10,13,14],swine:17,thi:8,ctl:17,output:[1,7,10,5,14]}})

diff --git a/epitopefinder_plotdistributioncomparison.html b/epitopefinder_plotdistributioncomparison.html
@@ -98,10 +98,12 @@
 <li><p class="first"><em>pvalue</em> is an option that should only be used if <em>epitopesfile2</em> specifies a subset of the sites found in <em>epitopesfile1</em>. It allows you to compute the P-value that the subset of sites in <em>epitopesfile2</em> has a higher (or lower) average number of epitopes per site than the full set of sites in <em>epitopesfile1</em>. If you do not want to use this option, set <em>pvalue</em> to <em>None</em>.</p>
 <p>Otherwise, <em>pvalue</em> is implemented as follows. We draw random subsets of the same number of sites that are found in <em>epitopesfile2</em> from the full set of sites in <em>epitopesfile1</em>. The number of such random subsets that are drawn is the integer specified by <em>pvalue</em>, so a reasonable value of <em>pvalue</em> is 100000. We then compute the average number of epitopes per site for the random subsets and compare it to the average number of epitopes per site in the actual subset in <em>epitopesfile2</em>. If more than half of the random subsets have fewer average epitopes than the actual subset in <em>epitopesfile2</em>, then the plot reports the P-value that <em>epitopesfile2</em> has more epitopes than a random subset. If less than half of the random subsets have fewer average epitopes than the actual subset, then the plot reports the P-value that <em>epitopesfile2</em> has fewer epitopes than a random subset. So the computed value is a <strong>one-sided</strong> P-value for the hypothesis that the mean number of epitopes per site for the subset of sites in <em>epitopesfile2</em> is &lt; or &gt; than the mean number of epitopes per site expected for a random subset of that many sites from <em>epitopesfile1</em>. The hypothesis that is being test (&lt; or &gt;) is indicated on the plot.</p>
 </li>
-<li><p class="first"><em>pvaluewithreplacement</em> is an option that is only required if <em>pvalue</em> is being used. In this case, <em>pvaluewithreplacment</em> should be either <em>True</em> or <em>False</em>. If it is <em>True</em>, then the random subsets are drawn with replacement (so the same site can be drawn more than once into a random subset). If it is <em>False</em>, then the random subsets are drawn without replacement (so the same site can only be drawn once into a random subset). You will need to figure out which is more appropriate. In general, if you have created the subset in <em>epitopesfile2</em> using <a class="reference internal" href="epitopefinder_selectsites.html#epitopefinder-selectsites-py"><em>epitopefinder_selectsites.py</em></a> with <em>retainmultiple</em> set to <em>True</em>, then you will want to make <em>pvaluewithreplacement</em> also <em>True</em>. If you have created the subset in <em>epitopesfil2</em> using <a class="reference internal" href="epitopefinder_selectsites.html#epitopefinder-selectsites-py"><em>epitopefinder_selectsites.py</em></a> with <em>retainmultiple</em> set to <em>False</em>, then you will want to make <em>pvaluewithreplacement</em> also <em>False</em>.</p>
+<li><p class="first"><em>pvaluewithreplacement</em> is an option that is only required if <em>pvalue</em> is being used. In this case, <em>pvaluewithreplacment</em> should be either <em>True</em> or <em>False</em>. If it is <em>True</em>, then the random subsets are drawn with replacement (so the same site can be drawn more than once into a random subset). If it is <em>False</em>, then the random subsets are drawn without replacement (so the same site can only be drawn once into a random subset). You will need to figure out which is more appropriate. In general, if you have created the subset in <em>epitopesfile2</em> using <a class="reference internal" href="epitopefinder_selectsites.html#epitopefinder-selectsites-py"><em>epitopefinder_selectsites.py</em></a> with <em>retainmultiple</em> set to <em>True</em>, then you will want to make <em>pvaluewithreplacement</em> also <em>True</em>. If you have created the subset in <em>epitopesfile2</em> using <a class="reference internal" href="epitopefinder_selectsites.html#epitopefinder-selectsites-py"><em>epitopefinder_selectsites.py</em></a> with <em>retainmultiple</em> set to <em>False</em>, then you will want to make <em>pvaluewithreplacement</em> also <em>False</em>.</p>
 <p>If <em>pvalue</em> is <em>None</em>, then you don&#8217;t need to specify any key for <em>pvaluewithreplacement</em>. If you do specify <em>pvaluewithreplacement</em> when <em>pvalue</em> is <em>None</em>, it has no meaning.</p>
 </li>
 <li><p class="first"><em>title</em> specifies the title placed above the plot. It can be <em>None</em> if no title is to be used. Otherwise, it should be the title (using LaTex formatting, spaces are allowed) that is placed above the plot.</p>
+</li>
+<li><p class="first"><em>ymax</em> is an optional key that specifies that we fix the maximum value of the y-axis. You can simply leave out this option or set it to <em>None</em> if you do not want to fix the y-axis. Otherwise set it to the number that you would like to make the y-maximum.</p>
 </li>
 </ul>
 </div></blockquote>

diff --git a/plot_module.html b/plot_module.html
@@ -191,7 +191,7 @@ these modules cannot be imported (if PylabAvailable() is False).</p>
 
 <dl class="function">
 <dt id="plot.PlotDistributionComparison">
-<tt class="descclassname">plot.</tt><tt class="descname">PlotDistributionComparison</tt><big>(</big><em>fullset</em>, <em>subset</em>, <em>fullsetname</em>, <em>subsetname</em>, <em>plotfile</em>, <em>xlabel</em>, <em>ylabel</em>, <em>title</em>, <em>nrandom</em>, <em>withreplacement</em><big>)</big><a class="headerlink" href="#plot.PlotDistributionComparison" title="Permalink to this definition">¶</a></dt>
+<tt class="descclassname">plot.</tt><tt class="descname">PlotDistributionComparison</tt><big>(</big><em>fullset</em>, <em>subset</em>, <em>fullsetname</em>, <em>subsetname</em>, <em>plotfile</em>, <em>xlabel</em>, <em>ylabel</em>, <em>title</em>, <em>nrandom</em>, <em>withreplacement</em>, <em>ymax=None</em><big>)</big><a class="headerlink" href="#plot.PlotDistributionComparison" title="Permalink to this definition">¶</a></dt>
 <dd><p>Compares two distributions and tests if one has a greater mean.</p>
 <p>This function can be generally used to compare and plot two
 distributions. Specifically, this function creates a plot of the
@@ -246,6 +246,9 @@ or <em>False</em>. If it is <em>True</em>, then the draws of the random subsets 
 done with replacement (so the same number can be drawn multiple times).
 If it is <em>False</em>, then the draws are done without replacement (so
 the same number is drawn at most once).</li>
+<li><em>ymax</em> is an optional argument setting the y-max of the plot. By default
+it is <em>None</em>, meaning that we let <tt class="docutils literal"><span class="pre">pylab</span></tt> find the best y-maximum.
+You can also specify a number if you want to set the y-maximum.</li>
 </ul>
 </dd></dl>
 
